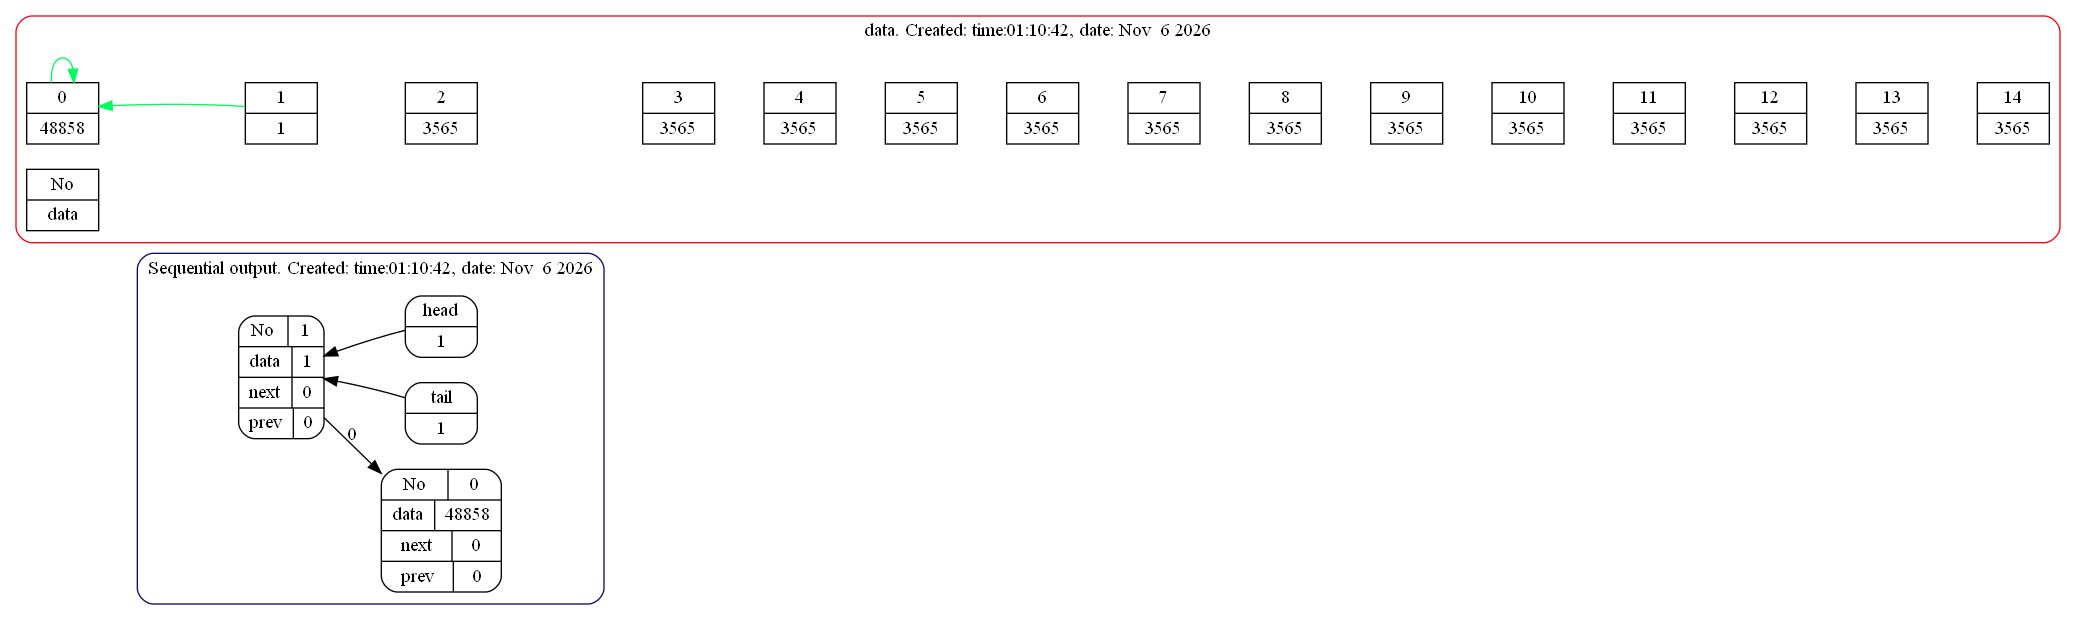
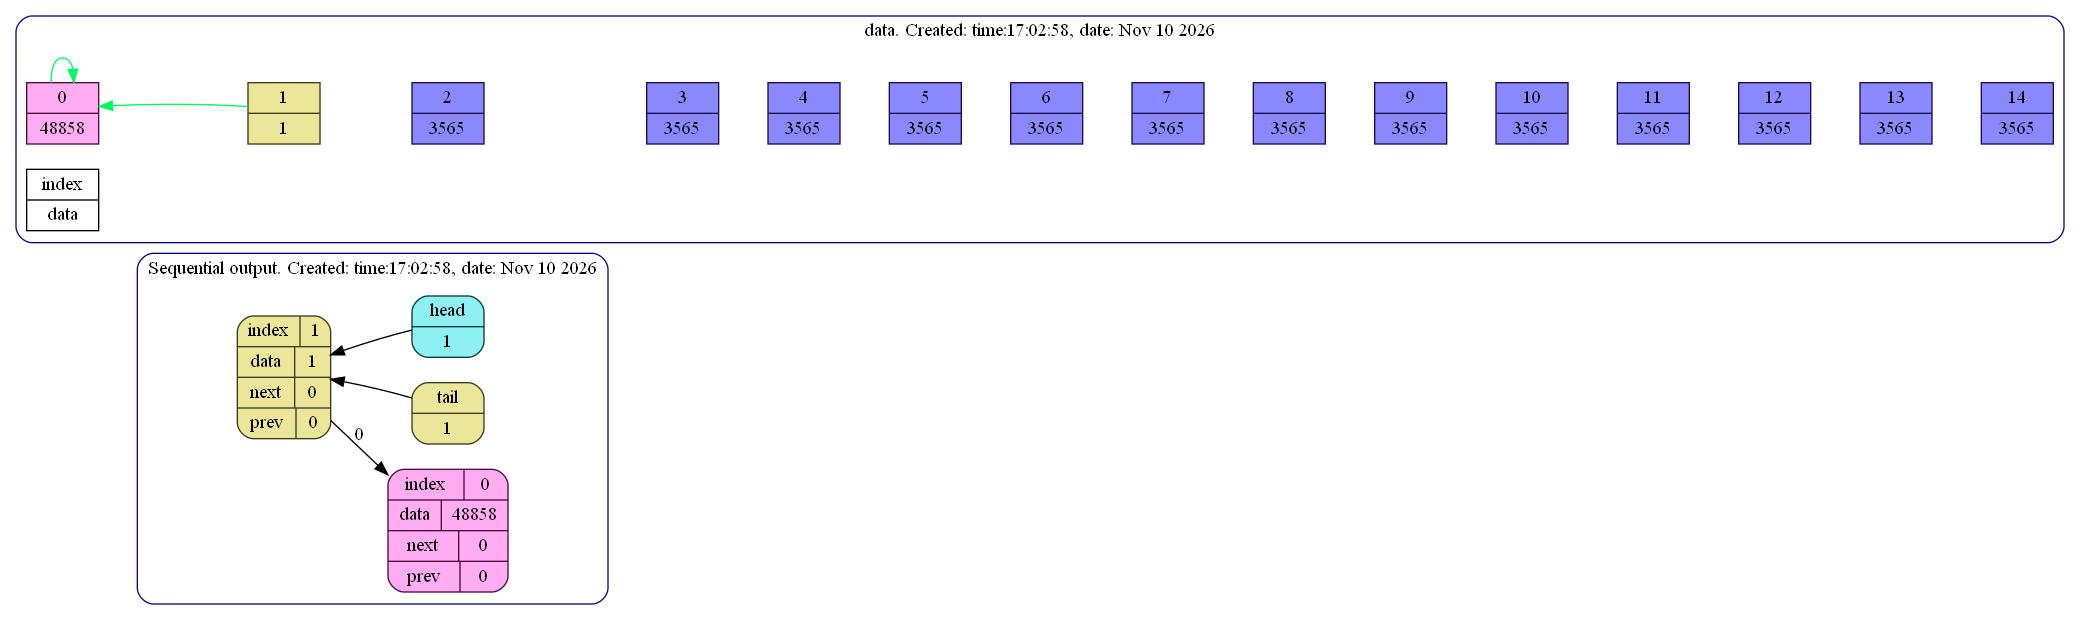
8gen : colored dump

diff --git a/list_func.cpp b/list_func.cpp
@@ -11,7 +11,7 @@ void init_list (struct List* list)
 {
     assert (list);
 
-    list -> data = (TYPE_OF_LIST_ELEM*) calloc (MIN_DATA_LEN, sizeof (TYPE_OF_LIST_ELEM));
+    list -> data = (TYPE_OF_LIST_ELEM*) calloc (MIN_DATA_LEN, sizeof (TYPE_OF_LIST_ELEM)); //TODO NULL CHECK
     list -> next = (int*) calloc (MIN_DATA_LEN, sizeof (int));
     list -> next = (int*) calloc (MIN_DATA_LEN, sizeof (int));
     list -> prev = (int*) calloc (MIN_DATA_LEN, sizeof (int));
@@ -121,7 +121,7 @@ TYPE_OF_LIST_ELEM pop_list (struct List* list, int position)
     return temp_arg;
 }
 
-void dump_list (struct List* list) //TODO: graphviz
+void dump_list (struct List* list)
 {
     assert (list);
 
@@ -149,14 +149,20 @@ void dump_list (struct List* list) //TODO: graphviz
     int i = 0;
     for (i = 0; i < list -> len_data; i ++)
     {
-        fprintf (dump_file, "node%d [shape = Mrecord, label=\"{No|%d}|{data|" SPECIF_TYPE "}|{next|%d}|{prev|%d}\"];\n",
+        if(now_elem_index == 0) fprintf (dump_file, "node%d [color = \"#480b41\", fillcolor = \"#ff00d953\", style = filled, shape = Mrecord, label=\"{index|%d}|{data|" SPECIF_TYPE "}|{next|%d}|{prev|%d}\"];\n",
+                i,now_elem_index, list -> data [now_elem_index], list -> next [now_elem_index], list -> prev [now_elem_index]);
+        else if (i == 0) fprintf (dump_file, "node%d [color = \"#3b3a19\", fillcolor = \"#d6ca2777\", style = filled, shape = Mrecord, label=\"{index|%d}|{data|" SPECIF_TYPE "}|{next|%d}|{prev|%d}\"];\n",
+                i,now_elem_index, list -> data [now_elem_index], list -> next [now_elem_index], list -> prev [now_elem_index]);
+        else if (list -> next [now_elem_index] == 0) fprintf (dump_file, "node%d [color = \"#0f3937\", fillcolor = \"#0cdee577\", style = filled, shape = Mrecord, label=\"{index|%d}|{data|" SPECIF_TYPE "}|{next|%d}|{prev|%d}\"];\n",
+                i,now_elem_index, list -> data [now_elem_index], list -> next [now_elem_index], list -> prev [now_elem_index]);
+        else fprintf (dump_file, "node%d [color = \"#20480b\", fillcolor = \"#11712477\", style = filled, shape = Mrecord, label=\"{index|%d}|{data|" SPECIF_TYPE "}|{next|%d}|{prev|%d}\"];\n",
                 i,now_elem_index, list -> data [now_elem_index], list -> next [now_elem_index], list -> prev [now_elem_index]);
         if (i != 0) fprintf (dump_file, "node%d -> node%d [label = \"%d\", weight = 100];\n", i - 1, i, i - 1);
         if (now_elem_index == 0) break;
         now_elem_index = list -> next [now_elem_index];
     }
-    fprintf (dump_file, "node%d [shape = Mrecord, label = \"tail|%d\"];\n", i + 1, list -> tail);
-    fprintf (dump_file, "node%d [shape = Mrecord, label = \"head|%d\"];\n", i + 2, list -> head);
+    fprintf (dump_file, "node%d [color = \"#3b3a19\", fillcolor = \"#d6ca2777\", style = filled, shape = Mrecord, label = \"tail|%d\"];\n", i + 1, list -> tail);
+    fprintf (dump_file, "node%d [color = \"#0f3937\", fillcolor = \"#0cdee577\", style = filled, shape = Mrecord, label = \"head|%d\"];\n", i + 2, list -> head);
 
     fprintf (dump_file, "node%d -> node%d [style = invis];\n", 0, i + 1);
     if (i - 1 >= 0) fprintf (dump_file, "node%d -> node%d [style = invis];\n", i - 1, i + 2);
@@ -169,13 +175,18 @@ void dump_list (struct List* list) //TODO: graphviz
     fprintf (dump_file, "subgraph cluster_data {\n");
     fprintf (dump_file, "label = \"data. Created: time:%s, date: %s\";\n", __TIME__, __DATE__);
     fprintf (dump_file, "style = rounded;\n");
-    fprintf (dump_file, "color = \"#ff0015\";\n");
+    fprintf (dump_file, "newrank = true;\n");
+    fprintf (dump_file, "color = \"#0c0a79\";\n");
 
-    fprintf (dump_file, "ceil01 [shape = record, label =\"No|data\"];\n");
+    fprintf (dump_file, "ceil01 [shape = record, label =\"index|data\"];\n");
     int j = 0;
     for (j = 0; j < list -> len_data; j ++)
     {
-        fprintf (dump_file, "ceil%d [shape = record, label =\"%d|" SPECIF_TYPE "\"];\n", j, j, list -> data [j]);
+        if (j == 0) fprintf (dump_file, "ceil%d [color = \"#480b41\", fillcolor = \"#ff00d953\", style = filled, shape = record, label =\"%d|" SPECIF_TYPE "\"];\n", j, j, list -> data [j]);
+        else if (list -> data [j] == POISON) fprintf (dump_file, "ceil%d [color = \"#1f0b48\", fillcolor = \"#0400ff77\", style = filled, shape = record, label =\"%d|" SPECIF_TYPE "\"];\n", j, j, list -> data [j]);
+        else if (j == list -> tail) fprintf (dump_file, "ceil%d [color = \"#3b3a19\", fillcolor = \"#d6ca2777\", style = filled, shape = record, label =\"%d|" SPECIF_TYPE "\"];\n", j, j, list -> data [j]);
+        else if (j == list -> head) fprintf (dump_file, "ceil%d [color = \"#0f3937\", fillcolor = \"#0cdee577\", style = filled, shape = record, label =\"%d|" SPECIF_TYPE "\"];\n", j, j, list -> data [j]);
+        else fprintf (dump_file, "ceil%d [color = \"#20480b\", fillcolor = \"#11712477\", style = filled, shape = record, label =\"%d|" SPECIF_TYPE "\"];\n", j, j, list -> data [j]);
 
         if (j == 0) fprintf (dump_file, "ceil01 -> node0 [style = invis, weight = 100];\n");
         else fprintf (dump_file, "ceil%d -> ceil%d [style = invis, weight = 200];\n", j - 1, j);
